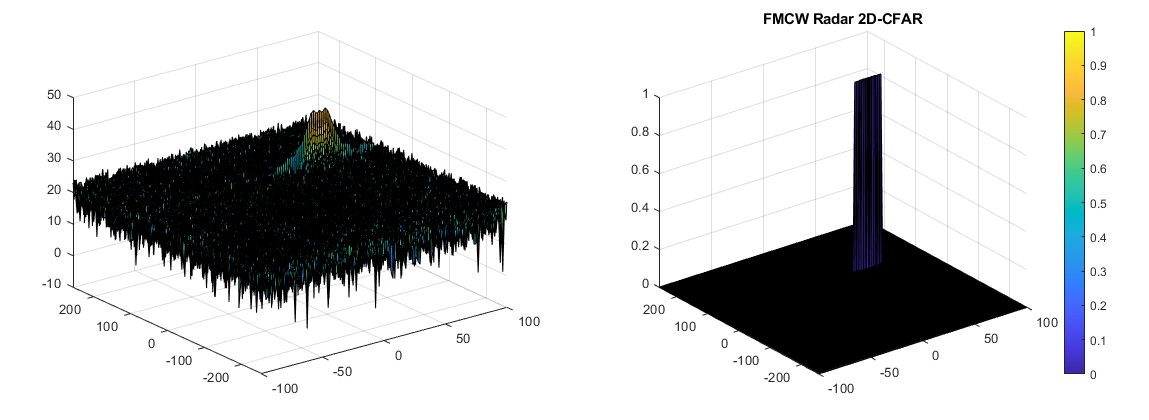
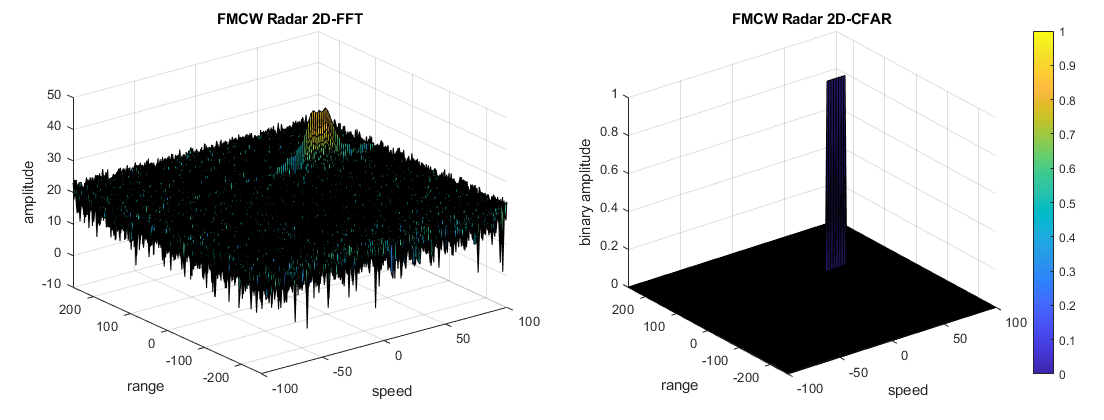
add radar project

diff --git a/3. Radar/Radar_Target_Generation_and_Detection.m b/3. Radar/Radar_Target_Generation_and_Detection.m
@@ -71,10 +71,17 @@ for i=1:length(t)
     Mix(i) = Tx(i) .* Rx(i);        % done by element wise matrix multiplication of Transmit and
 end
 
-figure()
+figure();
+grid on;
 subplot(311);plot(Tx(1:600));title('transmitted signal');
+xlabel('time');
+ylabel('amplitude');
 subplot(312);plot(Rx(1:600));title('received signal');
+xlabel('time');
+ylabel('amplitude');
 subplot(313);plot(Mix(1:600));title('beat signal');
+xlabel('time');
+ylabel('amplitude');
 
 
 
@@ -98,10 +105,12 @@ half_fft1 = fft1(1 : Nr/2);
 
 %plotting the range
 figure ();
-axis ([0 500 0 1]);
-% plot FFT output 
 plot(half_fft1); 
+axis ([0 300 0 0.3]); 
+grid on;
 title( 'Range from FFT');
+xlabel('range');
+ylabel('amplitude');
 
 
 
@@ -129,9 +138,11 @@ RDM = 10*log10(RDM) ;
 %dimensions
 doppler_axis = linspace(-100,100,Nd);
 range_axis = linspace(-200,200,Nr/2)*((Nr/2)/400);
-title( 'FMCW Radar 2D-FFT');
 figure,surf(doppler_axis,range_axis,RDM);
-
+title( 'FMCW Radar 2D-FFT');
+xlabel('speed');
+ylabel('range');
+zlabel('amplitude');
 
 %% CFAR implementation
 
@@ -140,13 +151,13 @@ figure,surf(doppler_axis,range_axis,RDM);
 % *%TODO* :
 %Select the number of Training Cells in both the dimensions.
 T_x = 10;
-T_y = 8;
+T_y = 5;
 
 % *%TODO* :
 %Select the number of Guard Cells in both dimensions around the Cell under 
 %test (CUT) for accurate estimation
 G_x = 4;
-G_y = 4;
+G_y = 2;
 
 % *%TODO* :
 % offset the threshold by SNR value in dB
@@ -224,6 +235,9 @@ end
 %colorbar;
 
 figure,surf(doppler_axis,range_axis,RDM);title( 'FMCW Radar 2D-CFAR');
+xlabel('speed');
+ylabel('range');
+zlabel('binary amplitude');
 colorbar;
 
 

diff --git a/3. Radar/README.md b/3. Radar/README.md
@@ -34,10 +34,12 @@ y axis: 1 : Nd     ->     T_y + G_y + 1 : Nd - T_y - G_y
 - In each loop, the value of each train cell in current window are summed, then convert the value from logarithmic to linear by `db2pow`. Then the sum will be averaged among all the train cells in current window, the size of train cells is getting counted when loop over the window.
 - Once the average sum has been generated, the estimated threshold can be converted back into logrithm by using the `pow2db` and added the pre-defined offset.
 - Simple segment to binary value by judging the center cell value is lower (0) or higher (1) than threshold.
-- Recall the method we used to deal with the spatial margin, one more step is to loop over whole space and set all cells which never visited to background (0).
+- Recall the method we used to deal with the spatial margin, one more step is to loop over whole space and set all cells which never visited (neither 0 or 1) to background (0).
 
 <img src="images/2.png" />
 
+The hyperparameters are chosen as:
+`T_x = 10`, `T_y = 5`, `G_x = 4`, `G_y = 2`, and `offset = 0.6`.
 
 
 
